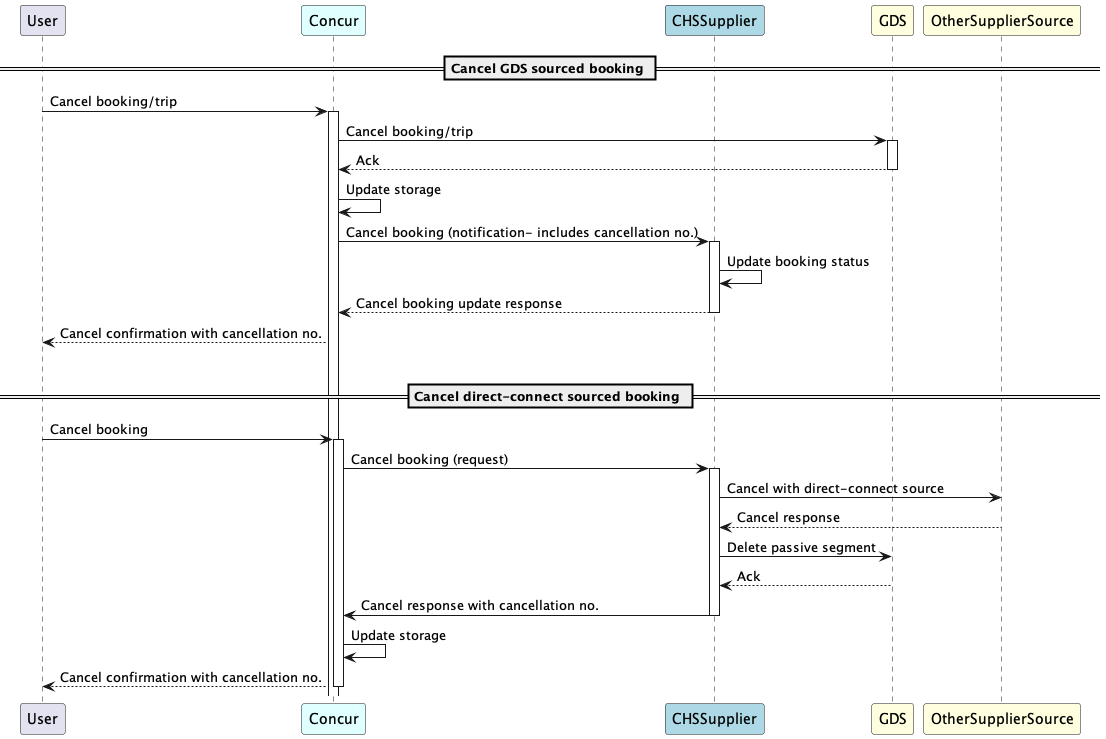
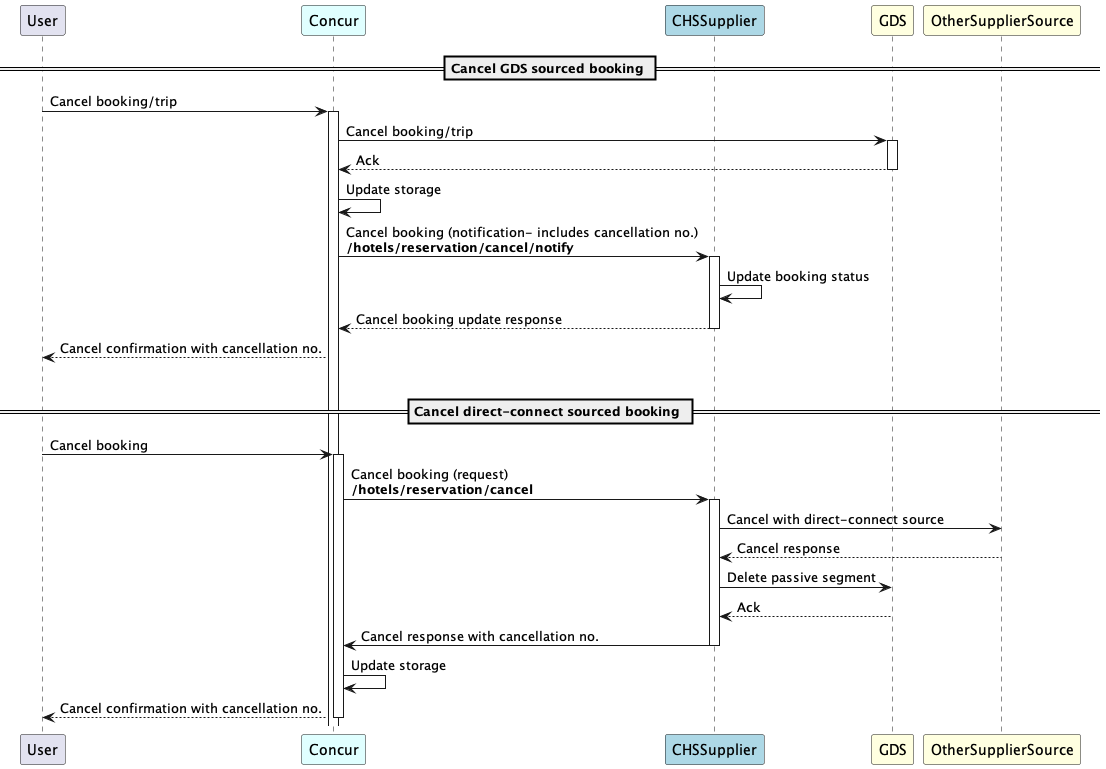
docs: enhancements on hotel single PNR documentation

diff --git a/src/api-reference/direct-connects/hotel-service-4/v4.single-pnr-solution.md b/src/api-reference/direct-connects/hotel-service-4/v4.single-pnr-solution.md
@@ -64,3 +64,8 @@ As mentioned earlier, if `ActiveSegmentInConcurPNR` is set to true, booking is t
 - Supplier sends the cancel request to their direct connect source and also deletes any related passive segment if they created one for the booking. 
 - Cancel response with cancellation number is returned to us which is then stored and displayed to user.
 
+### Add External Booking
+
+When a GDS PNR is modified, Concur detects the new booking and calls the CHS Supplier to fetch its details. The Supplier looks up the reservation and returns confirmation numbers being the primary target. Concur then augments its internal storage with the returned data so that confirmation numbers can be displayed to users and included in future calls, especially cancellation requests.
+
+![](images/diagrams/singlepnr/hotel_external_booking.png)
